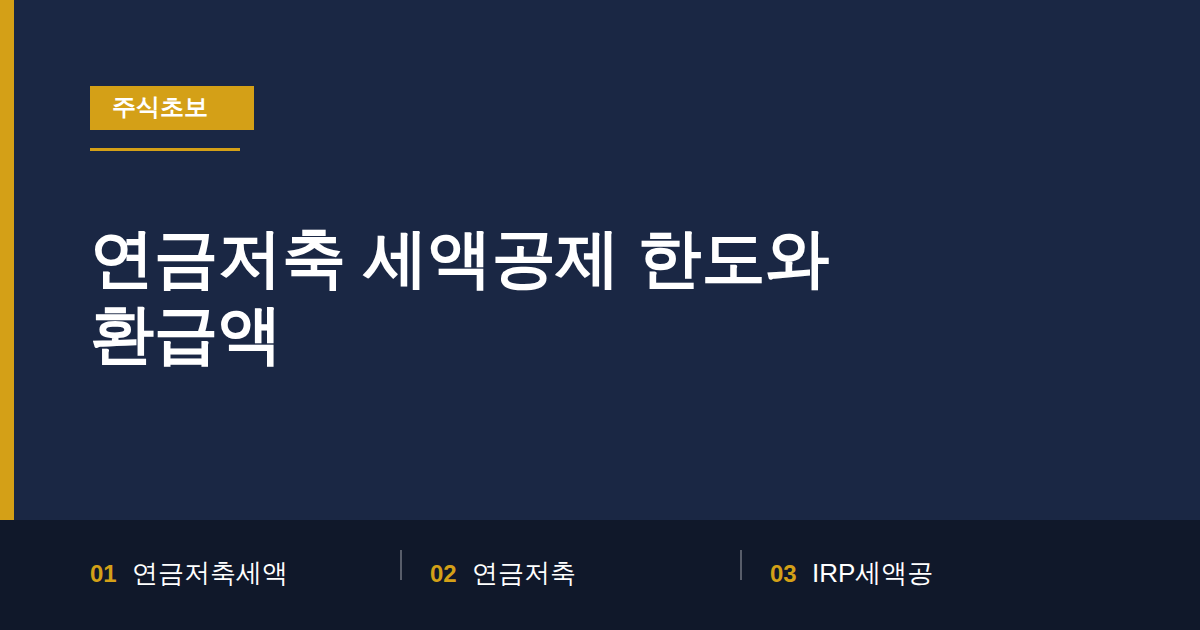
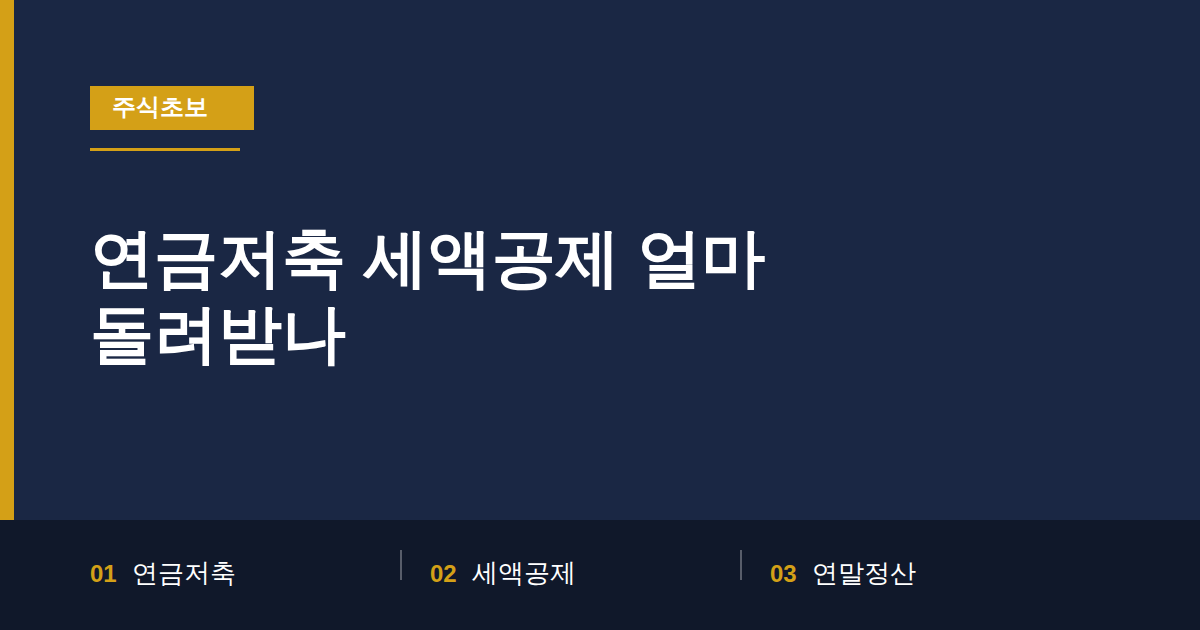
8편 보강 — 루틴판과 수동 초안 병합, 정보이득 두 섹션 추가
사용자가 루틴 실행 전에 8편을 만들어 달라고 해서 수동으로 초안을 썼는데, 작업 중
루틴(21:31 KST)이 실행돼 같은 글을 만들면서 충돌했다. 양쪽에 서로 없는 것이 있어
한쪽을 버리지 않고 합쳤다.

루틴판을 기준으로 삼은 이유 (수동판에 없던 것)
- 네이버 키워드도구 실측 검색량 3,180회(PC 800 / 모바일 2,380)가 이미 채워져 있었다.
- 국세청 페이지 스니펫에 구법 수치(400만원/700만원)가 섞여 나와 신법으로 알려진
  600만원/900만원과 충돌한다는 사실을 잡아냈다. 검색 결과를 그대로 믿었으면 5년 지난
  한도를 쓸 뻔한 자리다. 캡처가 왜 필수인지에 대한 훨씬 강한 근거다.
- sources/pension-savings-tax-credit-access-note.md에 접근 시도 기록을 남겼다.

수동판에서 가져온 것
- 제목 "연금저축 세액공제 한도와 환급액" → "연금저축 세액공제 얼마 돌려받나".
  RULES.md 제목 규칙(조사·접속사 제거)에 "와"가 걸린다. JSON-LD headline도 함께 맞췄다.
- 본문 섹션 두 개 추가. 루틴판에는 결정세액 관련 내용이 아예 없었고 중도해지는 FAQ
  한 줄뿐이었다.
  · "한도까지 넣으면 그 금액을 다 돌려받나요" — 세액공제는 현금 지급이 아니라 낼 세금을
    깎는 것이라 결정세액이 공제액보다 적으면 거기까지만 돌아오고, 남은 공제액은 이월 없이
    사라진다. 상위 경쟁 글이 "최대 148만원 환급"만 앞세우고 다루지 않는 부분이다.
  · "중도에 해지하면 어떻게 되나요" — 공제받은 원금·운용수익에 기타소득세 추징(부득이한
    사유는 예외). FAQ에만 있던 것을 본문으로 올렸다.
  두 섹션 모두 아직 확정 못 한 한도·공제율 수치에 의존하지 않아, 캡처 전에도 성립한다.
- 태그 순서를 짧은 것부터로 바꿔 썸네일 배지 잘림 정리(연금저축세액/IRP세액공 →
  연금저축/세액공제/연말정산).

검증: 게이트2 v3 통과, gate_pass는 게이트3·4 미충족으로 false 유지. FAQ 6개와 JSON-LD
1:1 일치, @id 티스토리 entry 패턴, 링크 전부 target=_blank rel=noopener(nofollow 없음),
썸네일 한글 렌더링 정상.

Claude-Session: https://claude.ai/code/session_01XKTwKe5xeJYdashdw41Tz7

diff --git a/stock_drafts/pension-savings-tax-credit.md b/stock_drafts/pension-savings-tax-credit.md
@@ -1,6 +1,6 @@
 ---
 keyword: 연금저축 세액공제
-title: 연금저축 세액공제 한도와 환급액
+title: 연금저축 세액공제 얼마 돌려받나
 slug: pension-savings-tax-credit
 keyword_class: human-assisted
 publish_effort: capture
@@ -19,10 +19,16 @@ serp_check: |
      예시까지 정확히 제공하지 않는다. 정보이득 여지 있음.
   → 3개 탈락 조건 모두 미해당, 게이트2 통과. 상세는 sources/pension-savings-tax-credit-access-note.md
 unique_asset: |
-  [계획 — 캡처 후 완성] 납입액이 아니라 "실제로 얼마 돌려받나"를 소득 구간별
-  (16.5%/13.2%)로 계산해 보여주는 예시 + IRP 합산 한도와의 관계 정리.
-  단, 계산에 쓰이는 한도·공제율·소득구간 수치 자체가 원문 캡처 전이라 아직
-  확정되지 않았다 — 현재는 표·계산 뼈대만 있고 값이 비어 있다.
+  [일부 완성 / 일부 캡처 대기]
+  (a) 캡처 대기 — 납입액이 아니라 "실제로 얼마 돌려받나"를 소득 구간별로 계산해 보여주는
+      예시 + IRP 합산 한도와의 관계. 계산 재료인 한도·공제율·소득구간 수치가 원문 캡처
+      전이라 표·계산이 뼈대만 있고 값이 비어 있다.
+  (b) 이미 완성 — 수치 없이도 성립하는 두 가지를 본문 섹션으로 넣었다. 상위 경쟁 글이
+      "최대 148만원 환급"을 앞세우는 자리에서 이쪽이 실질적 차별점이다.
+      · 결정세액 한계: 세액공제는 현금 지급이 아니라 낼 세금을 깎는 것이라, 결정세액이
+        공제액보다 적으면 거기까지만 돌아오고 남은 공제액은 이월 없이 사라진다.
+      · 중도해지 추징: 공제받은 원금·운용수익에 기타소득세가 매겨진다(부득이한 사유는 예외).
+      둘 다 금융사·핀테크의 상품 안내성 콘텐츠가 앞세우지 않는 부분이다.
 primary_source: |
   [미확보] 국세청 「연금계좌 세액공제」 안내 페이지로 계획했으나 이번 세션
   WebFetch가 EGRESS_BLOCKED(대조군 google.com도 동일 차단, 세션 전면 차단으로 판단).
@@ -32,7 +38,7 @@ primary_source: |
   등)를 섞어 인용해 두 세트가 충돌한다. 어느 쪽도 원문 캡처 없이 확정하지 않는다.
   상세: sources/pension-savings-tax-credit-access-note.md
 기준일: 확인필요 (원문 캡처 후 페이지에 표시된 최종수정일 또는 확인일로 기입)
-tags: 연금저축세액공제, 연금저축, IRP세액공제, 연금계좌, 세액공제한도, 노후준비, 연말정산, 주식초보, 절세, 2026세금
+tags: 연금저축, 세액공제, 연말정산, 연금저축세액공제, IRP세액공제, 연금계좌, 세액공제한도, 노후준비, 절세
 gate_pass: false
 gate_pass_note: |
   게이트1 미확인(false) — 큐 등록 시 참고값(월 3,400)은 있으나 이번 실행에서
@@ -76,8 +82,16 @@ self_check: |
   [2026-09-07, human-assisted/capture 재분류]
   게이트1 — 확인필요로 유지, notify-repo-only.yml 워크플로가 자동 기입 예정.
   게이트2 — v3 기준으로 통과 판정(serp_check 참조).
-  게이트3 — 미충족. 계산 예시에 쓸 한도·공제율 수치가 아직 원문 미확정이라
-  표를 채우지 않고 뼈대만 두었다. 캡처 없이 gate_pass를 true로 만들지 않았다.
+  게이트3 — 부분 충족. 계산 예시에 쓸 한도·공제율 수치가 아직 원문 미확정이라 표를
+  채우지 않고 뼈대만 두었다(캡처 없이 gate_pass를 true로 만들지 않았다). 다만 수치 없이도
+  성립하는 정보이득 두 가지를 본문 섹션으로 추가했다 — 결정세액 한계(공제액이 커도
+  낸 세금보다 많이 못 깎고, 남은 공제액은 이월 없이 소멸)와 중도해지 시 기타소득세 추징.
+  상위 경쟁 글이 "최대 148만원 환급"만 앞세우고 다루지 않는 부분이라 이 글의 실질적
+  차별점이며, 표가 채워지면 게이트3이 완성된다.
+  [2026-09-07 병합 기록] 이 초안은 루틴 자동 실행분과 사람 요청으로 만든 수동 초안이
+  같은 시각에 겹쳐 생성됐다. 루틴판을 기준으로 두고(측정된 검색량 3,180회, 구법 수치
+  충돌 발견, access-note 보존이 루틴판에만 있었음), 수동판에서 제목의 조사 제거와
+  위 두 정보이득 섹션, 태그 순서를 가져와 합쳤다. 어느 한쪽을 버리지 않았다.
   게이트4 — 미충족. nts.go.kr WebFetch가 EGRESS_BLOCKED(대조군 google.com도 차단,
   세션 전면 차단). WebSearch 단서는 신구 수치가 충돌해 본문 출처로 인용하지 않았다.
   제목 15자 내외·금지어 없음. 슬러그 영문 소문자+하이픈(pension-savings-tax-credit,
@@ -117,6 +131,8 @@ self_check: |
   <li>소득 구간별 공제율은 어떻게 다른가요</li>
   <li>실제로 얼마나 돌려받나요</li>
   <li>IRP와 함께 넣으면 한도가 어떻게 되나요</li>
+  <li>한도까지 넣으면 그 금액을 다 돌려받나요</li>
+  <li>중도에 해지하면 어떻게 되나요</li>
   <li>세액공제는 언제까지 신청해야 하나요</li>
 </ol>
 
@@ -194,6 +210,29 @@ self_check: |
   <li>연금저축만 가입한 경우: 연금저축 단독 한도까지만 공제</li>
   <li>연금저축 + IRP를 함께 가입한 경우: 합산한도까지 공제 (정확한 한도는 캡처 후 반영)</li>
 </ul>
+
+<h2 style="border-left:6px solid #4a90d9;padding-left:12px;margin-top:36px;">한도까지 넣으면 그 금액을 다 돌려받나요</h2>
+
+<p>아닐 수 있습니다. 이 지점이 "최대 얼마 환급"이라는 홍보 문구와 실제 결과가 갈리는 자리입니다.</p>
+
+<p><mark>세액공제는 나라가 현금을 주는 제도가 아니라, 내가 낼 세금을 깎아주는 제도</mark>입니다. 그래서 공제받을 수 있는 금액이 아무리 커도 <b>원래 내야 할 세금(결정세액)보다 많이 깎을 수는 없습니다.</b></p>
+
+<div style="background:#fdeaea;border-left:4px solid #d9534f;padding:14px 18px;margin:20px 0;line-height:1.8;">
+  <b>이런 경우 최대 환급액을 못 받습니다.</b>
+  <ul style="margin:8px 0 0 0;padding-left:20px;line-height:1.9;">
+    <li>소득이 적어 결정세액 자체가 공제액보다 작은 경우</li>
+    <li>다른 공제(인적공제·주택자금·의료비 등)로 이미 결정세액이 0에 가까워진 경우</li>
+  </ul>
+  <p style="margin:10px 0 0 0;">두 경우 모두 남은 공제액은 <b>다음 해로 이월되지 않고 그대로 사라집니다.</b> 연말정산 결과를 먼저 확인한 뒤 납입액을 정하는 편이 안전한 이유입니다.</p>
+</div>
+
+<h2 style="border-left:6px solid #4a90d9;padding-left:12px;margin-top:36px;">중도에 해지하면 어떻게 되나요</h2>
+
+<p>세액공제를 받은 뒤 연금 개시 전에 해지하면 <mark>그동안 받은 혜택을 되돌려 내야 합니다.</mark> 공제받았던 납입 원금과 그 운용수익에 기타소득세가 매겨지는 방식입니다.</p>
+
+<p>연금저축을 <b>중도 인출이 자유로운 저축</b>으로 생각하고 시작하면 이 지점에서 손해를 봅니다. 세액공제는 노후에 연금으로 받는 것을 전제로 미리 주는 혜택이기 때문입니다.</p>
+
+<p>다만 사망·해외이주, 가입자나 부양가족의 장기 요양, 개인회생·파산처럼 부득이한 사유로 인정되는 경우에는 낮은 세율이 적용됩니다. 해당 여부와 정확한 세율은 <a href="https://www.nts.go.kr" target="_blank" rel="noopener">국세청</a>에서 확인하는 것이 정확합니다.</p>
 
 <h2 style="border-left:6px solid #4a90d9;padding-left:12px;margin-top:36px;">세액공제는 언제까지 신청해야 하나요</h2>
 
@@ -317,8 +356,8 @@ self_check: |
 {
   "@context": "https://schema.org",
   "@type": "Article",
-  "headline": "연금저축 세액공제 한도와 환급액",
-  "description": "연금저축·IRP 세액공제 한도와 소득 구간별 공제율, 실제 환급액 계산 방법을 정리합니다. (수치는 원문 캡처 후 확정)",
+  "headline": "연금저축 세액공제 얼마 돌려받나",
+  "description": "연금저축·IRP 세액공제 한도와 소득 구간별 공제율, 그리고 결정세액 때문에 최대 환급액을 다 못 받는 경우와 중도해지 시 추징까지 정리합니다. (한도·공제율 수치는 원문 캡처 후 확정)",
   "author": { "@type": "Person", "name": "센시티브보스" },
   "publisher": { "@type": "Organization", "name": "센시티브보스" },
   "datePublished": "2026-09-07",
